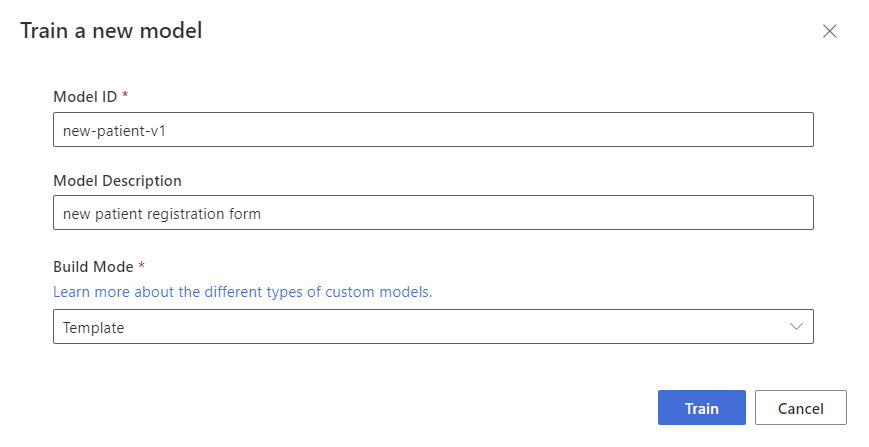
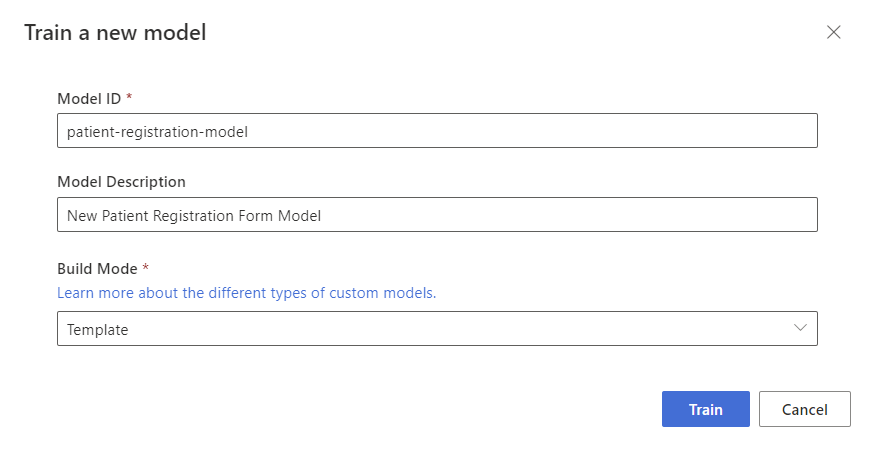
docs

diff --git a/docs/25-form-recognizer-studio/30-create-project.md b/docs/25-form-recognizer-studio/30-create-project.md
@@ -9,10 +9,12 @@ The Form Recognizer Studio provides and orchestrates all the API calls required 
 
     ![The image shows creating a new project](./img/studio-create-project.png)
 
-1. On the create project dialog, provide a 
-    1. Name for your project, 
-    1. Optionally a description, 
+1. On the create project dialog, provide a
+    1. Name for your project,
+    1. Optionally a description,
     1. Select **Continue**.
+
+    ![The image shows how to enter project details](./img/new_project_wizard.png)
 
 1. On the next page, complete the following steps:
 
@@ -24,7 +26,7 @@ The Form Recognizer Studio provides and orchestrates all the API calls required 
 
     ![Select the Form Recognizer resource](./img/create-service-resources.png)
 
-1. Next select the storage account where you uploaded your custom model training dataset. 
+1. Next select the storage account where you uploaded your custom model training dataset.
 
     1. Select your Azure subscription.
     1. Select the resource group **rg-<YOUR_CONTOSO_RESOURCE_GROUP_NAME>**.
@@ -34,6 +36,6 @@ The Form Recognizer Studio provides and orchestrates all the API calls required 
     1. Select **Continue**.
     1. Select **Create project**.
 
-    ![Select the storage account](./img/studio-select-storage.png)
+    ![The image shows how to select the training data source](./img/connect_training_data_source.png)
 
 The form recognizer service will now be created and configured. Once the service is created, the Studio will open the project and display the **Label data** page.

diff --git a/docs/30-create-new-patient-app/10-integrate-ai.md b/docs/30-create-new-patient-app/10-integrate-ai.md
@@ -122,7 +122,8 @@ To run the application locally, we need to set the environment variables for the
 1. Navigate to the [Azure portal](https://portal.azure.com) and open the resource group that was created for the workshop.
 1. Access the Storage Account resource `storage<hash>` and copy the connection string from the **Access Keys** section, replacing the `<STORAGE_CONNECTION_STRING>` value in the `local.settings.json` file.
 1. Access the Cosmos DB resource, `cosmos-<hash>` and copy the _Primary Connection String_ from the **Keys** section, replacing the `<COSMOS_DB_CONNECTION_STRING>` value in the `local.settings.json` file.
-1. Access the Form Recognizer resource , `form-recognizer-<hash>` and copy the _Endpoint_ and _Key 1_ from the **Keys and Endpoint** section, replacing the `<FORM_RECOGNIZER_ENDPOINT>` and `<FORM_RECOGNIZER_API_KEY>` values in the `local.settings.json` file, and set the `<FORM_RECOGNIZER_MODEL_ID>` value to the model ID created in the previous module.
+1. Access the Form Recognizer resource , `form-recognizer-<hash>` and copy the _Endpoint_ and _Key 1_ from the **Keys and Endpoint** section, replacing the `<FORM_RECOGNIZER_ENDPOINT>` and `<FORM_RECOGNIZER_API_KEY>` values in the `local.settings.json` file.
+1. Set the `<FORM_RECOGNIZER_MODEL_ID>` value to the model ID created in the previous module which should be **patient-registration-model**.
 
 Once all the environment variables have been set, we can run the application locally.
 

diff --git a/docs/25-form-recognizer-studio/50-train-model.md b/docs/25-form-recognizer-studio/50-train-model.md
@@ -6,7 +6,7 @@ With your dataset labeled, you're now ready to train your model. Follow these st
 
     ![image shows the train form button](./img/train-form-model.png)
 
-1. From the train a new model dialog, name your mode; **new-patient-registration**, and optionally, provide a description.
+1. From the train a new model dialog, name your model **patient-registration-model**, and optionally, provide a description.
 1. Select **Template** from the **Build Mode**.
 
     Learn more about the [model types and capabilities](https://docs.microsoft.com/azure/applied-ai-services/form-recognizer/concept-custom?WT.mc_id=aiml-77396-cxa).
